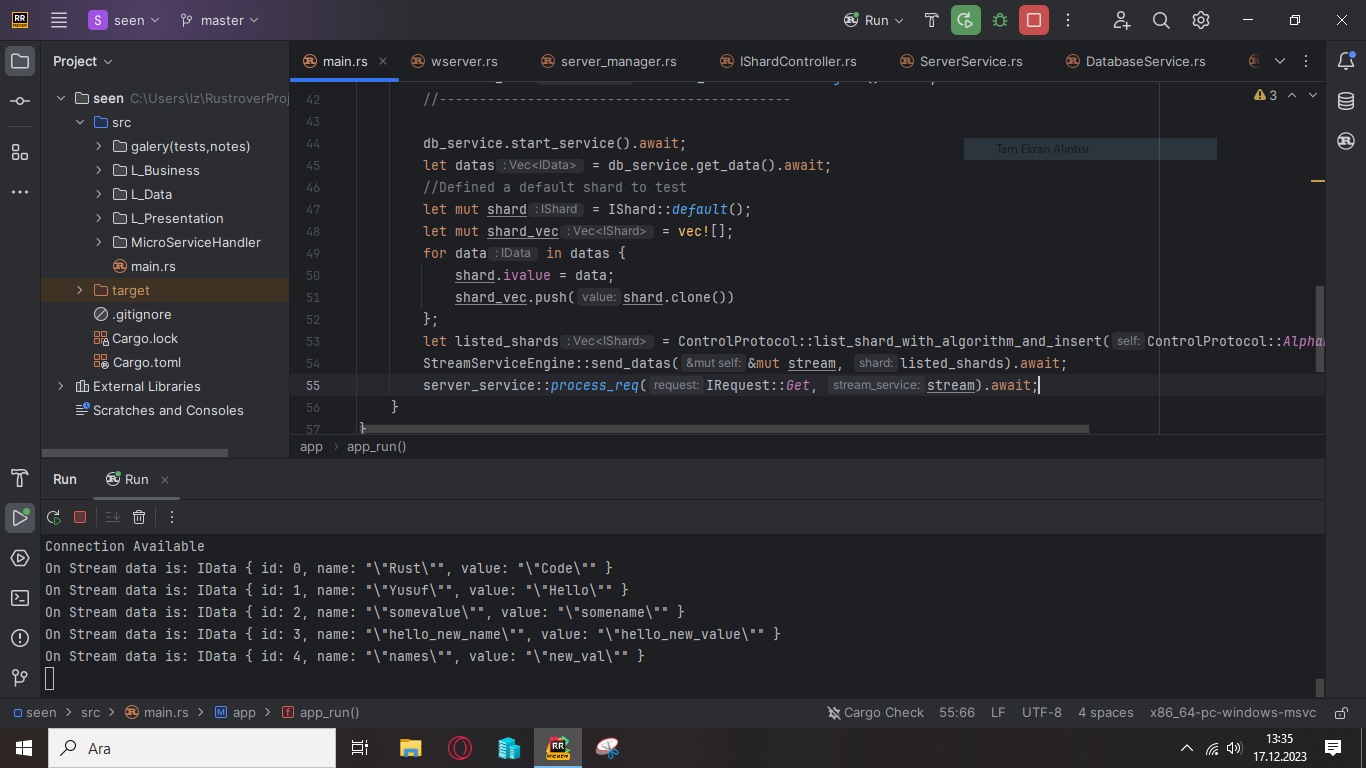
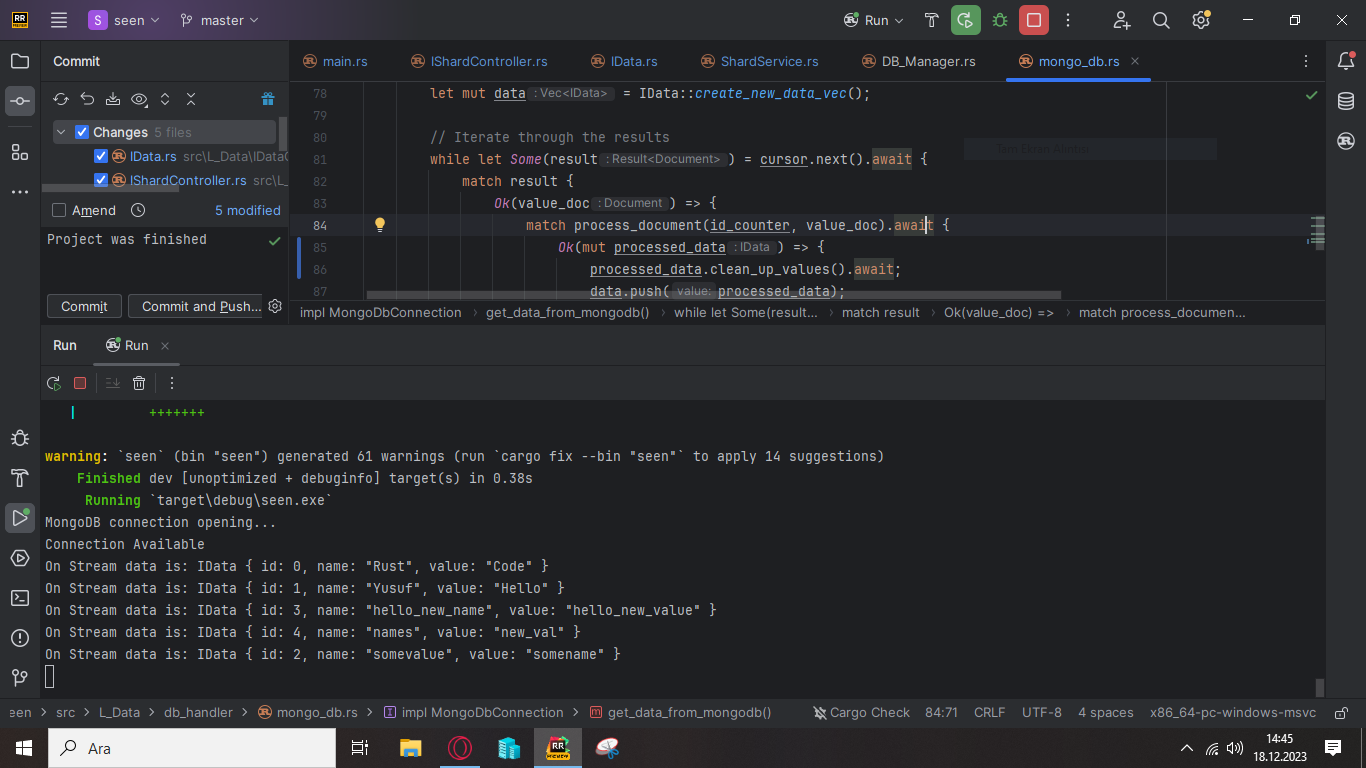
Project was finished

diff --git a/src/L_Data/IDataObj/IData.rs b/src/L_Data/IDataObj/IData.rs
@@ -1,31 +1,36 @@
 use std::fmt::Display;
 
 
-#[derive(PartialEq,Clone,Debug)]
+#[derive(PartialEq, Clone, Debug)]
 pub struct IData {
     pub(crate) id: i16,
     pub(crate) name: String,
     pub(crate) value: String,
 }
+
 impl IData {
     //Constructor
     pub fn default() -> IData {
         IData {
             id: 0,
-            name: "".to_string(),
-            value: "".to_string(),
+            name: String::new(),
+            value: String::new(),
         }
     }
     pub fn create_new_data_vec() -> Vec<IData> {
-        let mut vec_new:Vec<IData> = vec![];
+        let mut vec_new: Vec<IData> = vec![];
         vec_new
-
     }
-    pub async fn get_datas_on_vec(x:Vec<IData>) -> IData{
+    pub async fn get_datas_on_vec(x: Vec<IData>) -> IData {
         let mut data = IData::default();
-        for value in x{
+        for value in x {
             data = value;
         }
         data
+    }
+
+    pub async fn clean_up_values(&mut self) {
+        self.name = self.name.trim_matches('"').to_string();
+        self.value = self.value.trim_matches('"').to_string();
     }
 }

diff --git a/src/L_Data/sharding_engine/IShardController.rs b/src/L_Data/sharding_engine/IShardController.rs
@@ -19,13 +19,14 @@ impl ControlProtocol {
             ControlProtocol::Alphabetic => {
                 let mut id_counter = 0;
                 let mut _shards: Vec<IShard> = vec![];
-                let mut def_shard = IShard::default();
                 for datas in shards {
                     let first_char = take_first_char(&datas.ivalue.value);
-                    def_shard.key = format!("Key:{}", first_char);
-                    def_shard.id = id_counter;
-                    def_shard.ivalue = datas.ivalue;
-                    _shards.push(def_shard.clone());
+                    let shard_new = IShard{
+                        key: format!("Key:{}", first_char),
+                        id: 0,
+                        ivalue: datas.ivalue,
+                    };
+                    _shards.push(shard_new);
                     id_counter+=1;
                 }
                 _shards.sort_by_key(|shard| shard.key.clone());

diff --git a/src/MicroServiceHandler/ShardService.rs b/src/MicroServiceHandler/ShardService.rs
@@ -1,5 +1,6 @@
 use async_trait::async_trait;
 use crate::L_Data::sharding_engine::Ishard::IShard;
+use crate::L_Data::sharding_engine::IShardController::ControlProtocol;
 use crate::L_Data::sharding_engine::shard_manager::shard_service;
 
 #[async_trait]
@@ -10,6 +11,6 @@ pub trait ShardServiceEngine{
 #[async_trait]
 impl ShardServiceEngine for shard_service{
     async fn list_with_algorithm(self, shards: Vec<IShard>) -> Vec<IShard>{
-       self.list_with_algorithm(shards).await
+       ControlProtocol::list_shard_with_algorithm_and_insert(ControlProtocol::Alphabetic,shards).await
     }
 }

diff --git a/src/L_Data/db_handler/mongo_db.rs b/src/L_Data/db_handler/mongo_db.rs
@@ -82,7 +82,8 @@ impl MongoDbConnection {
             match result {
                 Ok(value_doc) => {
                     match process_document(id_counter, value_doc).await {
-                        Ok(processed_data) => {
+                        Ok(mut processed_data) => {
+                            processed_data.clean_up_values().await;
                             data.push(processed_data);
                         }
                         Err(err) => {

diff --git a/src/main.rs b/src/main.rs
@@ -50,7 +50,7 @@ mod app {
             shard.ivalue = data;
             shard_vec.push(shard.clone())
         };
-        let listed_shards = ControlProtocol::list_shard_with_algorithm_and_insert(ControlProtocol::Alphabetic, shard_vec).await;
+        let listed_shards = shard_serv.list_with_algorithm(shard_vec).await;
         StreamServiceEngine::send_datas(&mut stream, listed_shards).await;
         server_service::process_req(IRequest::Get, stream).await;
     }
